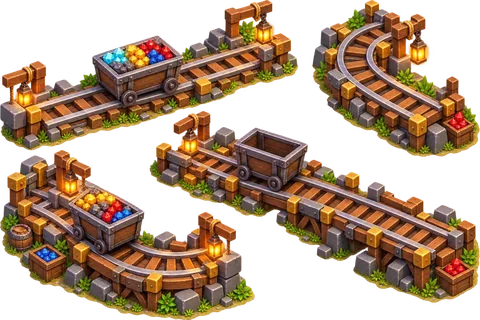
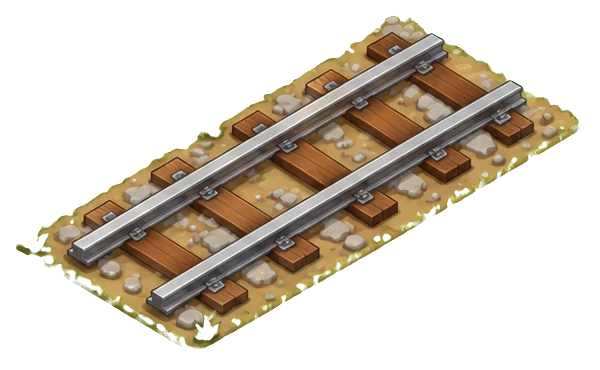
Rails avec les tuiles du Drive : droits, virages, embranchements et croisements automatiques ; le wagonnet suit les virages
Claude-Session: https://claude.ai/code/session_01F5c49AaQNVmfr8LMRrLVrX

diff --git a/src/composants/DessinsVillage.tsx b/src/composants/DessinsVillage.tsx
@@ -279,92 +279,70 @@ export function DessinEvolutionMine({ x, y, miroir, niveau, ascenseur, hauteurCa
 
 type Raccords = { n: boolean; e: boolean; s: boolean; o: boolean }
 
-// Le milieu de chaque bord d'une case, et les coins (pour les virages).
-function bords(x: number, y: number) {
-  return {
-    n: [x + 0.5, y] as [number, number],
-    e: [x + 1, y + 0.5] as [number, number],
-    s: [x + 0.5, y + 1] as [number, number],
-    o: [x, y + 0.5] as [number, number],
+// Les rails (23/10) : les tuiles du dessin de l'équipe (« Tuiles de voies ferrées isométriques »,
+// sur le Drive), remises à plat en vue de dessus par un script : un morceau tout droit et un
+// virage (fabriqué en courbant le morceau droit, pour avoir exactement le même style). On les
+// pose sur la case avec la même projection que le sol, tournées dans le bon sens.
+// Le joueur n'achète que des rails : chaque case choisit toute seule son dessin selon ses
+// voisines (une ligne droite se raccorde, un rail posé de côté fait un virage).
+const IMAGE_RAIL_DROIT = '/images/rails/rail_droit.webp' // relie le nord (y - 1) et le sud (y + 1)
+const IMAGE_RAIL_VIRAGE = '/images/rails/rail_virage.webp' // relie le sud (y + 1) et l'est (x + 1)
+
+type Cote = 'n' | 'e' | 's' | 'o'
+const COTES: Cote[] = ['n', 'e', 's', 'o']
+// Tourner d'un quart de tour (dans le sens des aiguilles d'une montre, vu de dessus) : n → e → s → o.
+const QUART: Record<Cote, Cote> = { n: 'e', e: 's', s: 'o', o: 'n' }
+const OPPOSE: Record<Cote, Cote> = { n: 's', e: 'o', s: 'n', o: 'e' }
+
+type Morceau = { image: string; quarts: number }
+
+// Combien de quarts de tour pour que le morceau de base (côtés a0, b0) relie les côtés a et b.
+function quartsPour(a0: Cote, b0: Cote, a: Cote, b: Cote): number {
+  for (let k = 0; k < 4; k++) {
+    let x = a0
+    let y = b0
+    for (let i = 0; i < k; i++) {
+      x = QUART[x]
+      y = QUART[y]
+    }
+    if ((x === a && y === b) || (x === b && y === a)) return k
   }
+  return 0
 }
 
-// Les morceaux de voie d'une case : des lignes droites (de bord à bord) ou des virages (quart de
-// cercle autour d'un coin de la case).
-function morceauxDeVoie(r: Raccords): ['droit', 'n' | 'e'] | ['virage', 'ne' | 'es' | 'so' | 'on'] | null {
-  const liste = (['n', 'e', 's', 'o'] as const).filter((c) => r[c])
+const droit = (a: Cote): Morceau => ({ image: IMAGE_RAIL_DROIT, quarts: a === 'n' || a === 's' ? 0 : 1 })
+const virage = (a: Cote, b: Cote): Morceau => ({ image: IMAGE_RAIL_VIRAGE, quarts: quartsPour('s', 'e', a, b) })
+
+// Les morceaux de voie d'une case, selon ses voisines :
+//   - aucune voisine, ou une seule : tout droit (vers la voisine) ;
+//   - deux voisines en face l'une de l'autre : tout droit ; à angle droit : un virage ;
+//   - trois voisines : tout droit entre les deux d'en face, et un virage vers la troisième ;
+//   - quatre : un croisement (les deux lignes droites).
+function morceauxDeVoie(r: Raccords): Morceau[] {
+  const liste = COTES.filter((c) => r[c])
+  if (liste.length === 0) return [droit('n')]
+  if (liste.length === 1) return [droit(liste[0])]
   if (liste.length === 2) {
     const [a, b] = liste
-    if ((a === 'n' && b === 's') || (a === 'e' && b === 'o')) return ['droit', a === 'n' ? 'n' : 'e']
-    const cle = `${a}${b}`
-    if (cle === 'ne') return ['virage', 'ne']
-    if (cle === 'es') return ['virage', 'es']
-    if (cle === 'so') return ['virage', 'so']
-    if (cle === 'no') return ['virage', 'on']
+    return OPPOSE[a] === b ? [droit(a)] : [virage(a, b)]
   }
-  return null
+  if (liste.length === 3) {
+    const seul = COTES.find((c) => r[c] && !r[OPPOSE[c]]) as Cote
+    const enFace = COTES.find((c) => r[c] && r[OPPOSE[c]]) as Cote
+    return [droit(enFace), virage(seul, enFace)]
+  }
+  return [droit('n'), droit('e')]
 }
-
-// Un quart de cercle de rayon r autour du coin K, du côté (ux, uy) au côté (vx, vy).
-function quartDeCercle(K: [number, number], r: number, u: [number, number], v: [number, number]): string {
-  const debut = versEcran(K[0] + u[0] * r, K[1] + u[1] * r)
-  const controle = versEcran(K[0] + (u[0] + v[0]) * r, K[1] + (u[1] + v[1]) * r)
-  const fin = versEcran(K[0] + v[0] * r, K[1] + v[1] * r)
-  return `M${debut.x} ${debut.y} Q${controle.x} ${controle.y} ${fin.x} ${fin.y}`
-}
-
-const VIRAGES = {
-  // coin, direction vers le premier bord, direction vers le second bord
-  ne: { coin: [1, 0], u: [-1, 0], v: [0, 1] },
-  es: { coin: [1, 1], u: [0, -1], v: [-1, 0] },
-  so: { coin: [0, 1], u: [1, 0], v: [0, -1] },
-  on: { coin: [0, 0], u: [0, 1], v: [1, 0] },
-} as const
 
 export function CaseRail({ x, y, raccords }: { x: number; y: number; raccords: Raccords }) {
-  const forme = morceauxDeVoie(raccords)
-  const b = bords(x, y)
-  const traverses: ReactNode[] = []
-  const rails: string[] = []
-  if (forme === null || forme[0] === 'droit') {
-    // Tout droit (ou croisement : on dessine les deux sens).
-    const sens: ('n' | 'e')[] =
-      forme !== null ? [forme[1]] : raccords.n || raccords.s ? (raccords.e || raccords.o ? ['n', 'e'] : ['n']) : ['e']
-    for (const s of sens) {
-      const [a1, a2] = s === 'n' ? [b.n, b.s] : [b.o, b.e]
-      const perp: [number, number] = s === 'n' ? [1, 0] : [0, 1]
-      for (const k of [0.2, 0.5, 0.8]) {
-        const cx = a1[0] + (a2[0] - a1[0]) * k
-        const cy = a1[1] + (a2[1] - a1[1]) * k
-        const g = versEcran(cx - perp[0] * 0.38, cy - perp[1] * 0.38)
-        const d = versEcran(cx + perp[0] * 0.38, cy + perp[1] * 0.38)
-        traverses.push(<line key={`${s}${k}`} x1={g.x} y1={g.y} x2={d.x} y2={d.y} />)
-      }
-      for (const decal of [-0.22, 0.22]) {
-        const debut = versEcran(a1[0] + perp[0] * decal, a1[1] + perp[1] * decal)
-        const fin = versEcran(a2[0] + perp[0] * decal, a2[1] + perp[1] * decal)
-        rails.push(`M${debut.x} ${debut.y} L${fin.x} ${fin.y}`)
-      }
-    }
-  } else {
-    const v = VIRAGES[forme[1]]
-    const K: [number, number] = [x + v.coin[0], y + v.coin[1]]
-    for (const k of [0.18, 0.5, 0.82]) {
-      const angle = (k * Math.PI) / 2
-      const dir: [number, number] = [v.u[0] * Math.cos(angle) + v.v[0] * Math.sin(angle), v.u[1] * Math.cos(angle) + v.v[1] * Math.sin(angle)]
-      const g = versEcran(K[0] + dir[0] * 0.12, K[1] + dir[1] * 0.12)
-      const d = versEcran(K[0] + dir[0] * 0.88, K[1] + dir[1] * 0.88)
-      traverses.push(<line key={k} x1={g.x} y1={g.y} x2={d.x} y2={d.y} />)
-    }
-    rails.push(quartDeCercle(K, 0.28, v.u as unknown as [number, number], v.v as unknown as [number, number]))
-    rails.push(quartDeCercle(K, 0.72, v.u as unknown as [number, number], v.v as unknown as [number, number]))
-  }
+  const coin = versEcran(x, y)
+  // La case vue de dessus (1 × 1) posée sur la grille isométrique : la même projection que le sol.
+  const surLaCase = `matrix(${DEMI_LARGEUR} ${DEMI_HAUTEUR} ${-DEMI_LARGEUR} ${DEMI_HAUTEUR} ${coin.x} ${coin.y})`
   return (
-    <g className="case-rail">
-      <polygon points={poly([[x, y], [x + 1, y], [x + 1, y + 1], [x, y + 1]])} className="ballast" />
-      <g className="traverses">{traverses}</g>
-      <path d={rails.join(' ')} className="rail-ombre" />
-      <path d={rails.join(' ')} className="rail-acier" />
+    <g className="case-rail" transform={surLaCase}>
+      {morceauxDeVoie(raccords).map((m, i) => (
+        <image key={i} href={m.image} x="0" y="0" width="1" height="1" preserveAspectRatio="none" transform={m.quarts ? `rotate(${m.quarts * 90} 0.5 0.5)` : undefined} />
+      ))}
     </g>
   )
 }

diff --git a/src/composants/iso.ts b/src/composants/iso.ts
@@ -7,7 +7,7 @@
 // en damier et la forêt autour sont dessinés par le jeu (TerrainVillage, ForetVillage).
 
 import { TAILLE_GRILLE, type IdBatiment, type IdDecoration } from '../jeu/donnees'
-import { porte, porteAGauche, type BatimentPose, type Case } from '../jeu/village'
+import { batimentPose, empriseBatiment, porte, porteAGauche, type BatimentPose, type Case, type Village } from '../jeu/village'
 
 // La moitié de la largeur et de la hauteur d'une case à l'écran (la taille des images des
 // bâtiments est calée dessus : elle ne change pas si la clairière grandit).
@@ -154,6 +154,65 @@ export function surLeChemin(points: Case[], distance: number): { x: number; y: n
   const dernier = centres[centres.length - 1]
   const avant = centres[centres.length - 2] ?? dernier
   return { x: dernier.x, y: dernier.y, dx: dernier.x - avant.x, dy: dernier.y - avant.y }
+}
+
+// Une position le long d'une trace (des points de la grille, à virgule), à une distance donnée.
+export function surLaTrace(points: { x: number; y: number }[], distance: number): { x: number; y: number; dx: number; dy: number } {
+  return surLeChemin(
+    points.map((p) => ({ x: p.x - 0.5, y: p.y - 0.5 })),
+    distance,
+  )
+}
+
+export function longueurTrace(points: { x: number; y: number }[]): number {
+  let total = 0
+  for (let i = 1; i < points.length; i++) total += Math.hypot(points[i].x - points[i - 1].x, points[i].y - points[i - 1].y)
+  return total
+}
+
+// La trace du wagonnet sur la ligne de rails (23/10) : il part du bord de la mine, suit le milieu
+// de la voie (tout droit au centre des cases, en quart de cercle dans les virages, comme le
+// dessin des rails), et arrive au bord du marché.
+export function traceDeLaVoie(village: Village, ligne: Case[]): { x: number; y: number }[] {
+  const dans = (id: 'puits' | 'marche', c: Case) => {
+    const b = batimentPose(village, id)
+    if (!b) return false
+    const e = empriseBatiment(b)
+    return c.x >= e.x && c.y >= e.y && c.x < e.x + e.taille && c.y < e.y + e.taille
+  }
+  const voisins = [
+    { x: 0, y: -1 },
+    { x: 1, y: 0 },
+    { x: 0, y: 1 },
+    { x: -1, y: 0 },
+  ]
+  // Le côté de la case qui donne vers la case précédente (ou la mine) et vers la suivante (ou le marché).
+  const cote = (c: Case, vers: Case | 'puits' | 'marche') => {
+    if (typeof vers !== 'string') return { x: Math.sign(vers.x - c.x), y: Math.sign(vers.y - c.y) }
+    return voisins.find((d) => dans(vers, { x: c.x + d.x, y: c.y + d.y })) ?? { x: 0, y: vers === 'puits' ? -1 : 1 }
+  }
+  const trace: { x: number; y: number }[] = []
+  ligne.forEach((c, i) => {
+    const entree = cote(c, i > 0 ? ligne[i - 1] : 'puits')
+    const sortie = cote(c, i < ligne.length - 1 ? ligne[i + 1] : 'marche')
+    const centre = { x: c.x + 0.5, y: c.y + 0.5 }
+    const bordEntree = { x: centre.x + entree.x * 0.5, y: centre.y + entree.y * 0.5 }
+    const bordSortie = { x: centre.x + sortie.x * 0.5, y: centre.y + sortie.y * 0.5 }
+    if (i === 0) trace.push(bordEntree)
+    if (entree.x === -sortie.x && entree.y === -sortie.y) {
+      trace.push(centre, bordSortie)
+      return
+    }
+    // Un virage : un quart de cercle de rayon 0,5 autour du coin commun aux deux côtés.
+    const coin = { x: centre.x + (entree.x + sortie.x) * 0.5, y: centre.y + (entree.y + sortie.y) * 0.5 }
+    for (let k = 1; k <= 6; k++) {
+      const angle = (k / 6) * (Math.PI / 2)
+      const a = { x: bordEntree.x - coin.x, y: bordEntree.y - coin.y }
+      const b = { x: bordSortie.x - coin.x, y: bordSortie.y - coin.y }
+      trace.push({ x: coin.x + a.x * Math.cos(angle) + b.x * Math.sin(angle), y: coin.y + a.y * Math.cos(angle) + b.y * Math.sin(angle) })
+    }
+  })
+  return trace
 }
 
 // Où se tient quelqu'un devant un bâtiment : le long de sa face avant (rang 0 = juste devant la

diff --git a/public/sw.js b/public/sw.js
@@ -9,12 +9,13 @@
 // - Les autres fichiers du site (icônes, manifeste, images du village) : le cache d'abord, puis on le met à jour.
 // - Supabase (comptes, classement) n'est jamais mis en cache : ce n'est pas notre site.
 
-const CACHE = 'idle-miner-v8'
+const CACHE = 'idle-miner-v9'
 // Les images du village vu du ciel (20/10) sont rangées dès l'installation : sans elles, le
 // village serait vide hors ligne. (21/10 : images en haute définition et arbres, d'où le cache v4.)
 const IMAGES_DU_VILLAGE = [
   ...Array.from({ length: 12 }, (_, i) => `/images/village/arbres/arbre${String(i + 1).padStart(2, '0')}.webp`),
   ...['mine', 'mine-cabine', 'mine-devant', 'bazar', 'employes', 'foreuse', 'forgeron', 'generateur', 'marche', 'rails'].map((nom) => `/images/batiments/${nom}.webp`),
+  ...['rail_droit', 'rail_virage'].map((nom) => `/images/rails/${nom}.webp`),
   ...['manager', 'mineur', 'recruteur'].map((nom) => `/images/personnages/${nom}.webp`),
   // Les personnages vus de devant, de derrière, de gauche et de droite (src/composants/sprites.ts).
   ...['joueur', 'mineur_commun', 'mineur_rare', 'mineur_epique', 'mineur_legendaire', 'mineur_mythique'].flatMap((nom) =>

diff --git a/src/composants/MenuConstruction.tsx b/src/composants/MenuConstruction.tsx
@@ -137,7 +137,7 @@ export function MenuConstruction({ etat, onglet, onOnglet, onFermer, onPoserBati
               </div>
               <div className="construction-texte">
                 <strong>🛤 Rails</strong>
-                <span className="discret">Relie la mine au marché par une ligne continue : le wagonnet y emporte le coffre de la mine. Poussé par toi ou un mineur, ou tout seul avec le générateur !</span>
+                <span className="discret">Relie la mine au marché par une ligne continue : le wagonnet y emporte le coffre de la mine. Pose-les en ligne, ils se raccordent tout seuls ; un rail posé sur le côté fait un virage.</span>
                 <span className="discret">1 case · {etat.village.rails.length} posée{etat.village.rails.length > 1 ? 's' : ''}</span>
               </div>
               <div className="construction-achat">

diff --git a/src/composants/VueVillage.tsx b/src/composants/VueVillage.tsx
@@ -48,6 +48,9 @@ import {
   orienter,
   profondeur,
   surLeChemin,
+  surLaTrace,
+  longueurTrace,
+  traceDeLaVoie,
   versEcran,
   versGrille,
   type Point,
@@ -139,8 +142,9 @@ export function VueVillage({
   const ligne = ligneDuWagonnet(etat)
   const wagonnet = (() => {
     if (!ligne) return null
+    const trace = traceDeLaVoie(village, ligne)
     const k = distanceDepuisLaMine(etat) / longueurTrajet(ligne)
-    const point = surLeChemin(ligne, k * longueurChemin(ligne))
+    const point = surLaTrace(trace, k * longueurTrace(trace))
     const retour = etat.wagonnet.etape === 'retour'
     return { ...point, dx: retour ? -point.dx : point.dx, dy: retour ? -point.dy : point.dy }
   })()

diff --git a/src/village.css b/src/village.css
@@ -172,31 +172,6 @@
 
 /* --- Le sol : rails, chemins, grille, emprises ------------------------------------ */
 
-.case-rail .ballast {
-  fill: #8a7a64;
-  stroke: #5e5244;
-  stroke-width: 0.6;
-}
-
-.case-rail .traverses line {
-  stroke: #7a4a22;
-  stroke-width: 3.4;
-  stroke-linecap: round;
-}
-
-.case-rail .rail-ombre {
-  fill: none;
-  stroke: #26262c;
-  stroke-width: 3.6;
-  stroke-linecap: round;
-}
-
-.case-rail .rail-acier {
-  fill: none;
-  stroke: #d2d3dc;
-  stroke-width: 1.7;
-  stroke-linecap: round;
-}
 
 .emprise {
   stroke-width: 2;

diff --git a/docs/jeu/visuel-et-sons.md b/docs/jeu/visuel-et-sons.md
@@ -192,7 +192,11 @@ Le village est une carte **isométrique** (vue du ciel à 45°, comme Clash of C
 - **La mine** : l'image fournie (`mine.webp`), et par-dessus ce qui **évolue** (`DessinEvolutionMine`, en SVG, placé à partir de points de l'image, `POINTS_MINE`, miroir compris) :
   - **la cabine de l'ascenseur** (`mine-cabine.webp`, tirée du dessin « mine avec ascenseur »), dès qu'il est construit, pendue à **deux câbles** (gris en pointillés sur un trait sombre) qui partent du treuil. Elle **suit le premier mineur qui monte ou descend** (`hauteurCabine` : 0 = en haut, 1 = en bas, selon l'avancée de son trajet) et attend en haut le reste du temps. En bas, elle passe derrière la barrière et le sol de devant (`mine-devant.webp`, dessiné par-dessus). Sans ascenseur, les câbles pendent au fond du puits ;
   - **un panneau en bois** planté sur le sol de devant, à gauche, avec « Niv. *N* ».
-- **Les rails** (`CaseRail`) : du ballast gris, des traverses en bois, deux rails en acier. Chaque case **se raccorde toute seule** à ses voisines (et à la mine ou au marché collés à elle) : une ligne droite, ou un **virage** en quart de cercle.
+- **Les rails** (`CaseRail`, 23/10) : les tuiles du dessin de l'équipe (« Tuiles de voies ferrées isométriques » sur le Drive : ballast de terre et de cailloux, traverses en bois, rails en acier avec leurs attaches). Un script les a remises à plat en vue de dessus, puis on les repose sur chaque case avec la même projection que le sol (`public/images/rails/`) :
+  - `rail_droit.webp` : un morceau tout droit d'une case (deux traverses, raccordable sans couture) ;
+  - `rail_virage.webp` : le virage, fabriqué en **courbant** le morceau droit en quart de cercle (rayon d'une demi-case autour d'un coin) : exactement le même style.
+
+  On n'achète que des rails : chaque case **choisit toute seule** son dessin selon ses voisines (et la mine ou le marché collés à elle, `raccordsRail`), en tournant la tuile d'un quart de tour si besoin : seule ou avec une voisine → tout droit vers elle ; deux voisines en face → tout droit ; deux voisines à angle droit → **virage** ; trois voisines → tout droit plus un virage vers la troisième ; quatre → croisement. Le **wagonnet suit la voie** : tout droit au milieu des cases, en quart de cercle dans les virages (`traceDeLaVoie` dans `iso.ts`). L'image du menu Bâtiments (`images/batiments/rails.webp`) est le morceau droit de la planche.
 - **Le wagonnet** (`DessinWagonnet`) : une petite benne grise au bord doré sur deux roues, avec son ombre. **À l'aller**, il est **plein** (trois minerais qui dépassent : turquoise, jaune, rouge) ; au retour et au quai, vide. Il glisse le long de la ligne selon sa distance (`distanceDepuisLaMine`), à chaque image quand c'est le joueur qui pousse. **Électrique**, il a une **lueur jaune** (`.wagonnet-electrique`). Son pousseur (le joueur ou un mineur) marche derrière lui.
 - **Le rayon du générateur** (`RayonGenerateur`) : un cercle de *R* cases autour du centre du générateur, dessiné comme un polygone de 64 points projeté sur la grille (une ellipse à l'écran). **Pointillés jaunes** (`rgb(255 214 60)`) avec un fond jaune très léger. Quand on est devant le générateur ou qu'on le pose : plus épais, plus visible, et les **pointillés tournent** (`rayon-tourne`, 1,6 s). Sans courant : **gris**. Caché s'il ne donne pas de courant et qu'on ne le regarde pas.
 - **Les chemins** (`CaseChemin`) : des pavés gris clair sur de la terre beige.
@@ -293,7 +297,7 @@ Toutes ont le même dessin : sur un fond carré arrondi gris-bleu très sombre (
 
 Enregistré **seulement en production** (`enregistrerServiceWorker` dans `src/installation.ts`, appelé par `main.tsx` ; en développement le cache gênerait), au chargement de la page, avec `updateViaCache: 'none'`. S'il échoue (navigation privée…), le jeu marche quand même, sans hors ligne.
 
-- Cache **`idle-miner-v8`** (changer ce nom vide le cache de tous les joueurs). À l'installation, il range `/`, `/manifest.webmanifest`, `/favicon.svg`, `/icones/icone-192.png`, `/icones/icone-512.png`, et **les images du village** (`IMAGES_DU_VILLAGE` : les 12 arbres, 9 images de `images/batiments/` (mine, bazar, employes, enchanteur, foreuse, forgeron, marche, prestige, rails), les 3 portraits de `images/personnages/`, les 26 images des personnages de `images/personnages/sprites/`). Attention : `generateur.webp`, `mine-cabine.webp` et `mine-devant.webp` ne sont **pas** dans cette liste : ils ne sont mis en cache qu'après avoir été vus une fois en ligne, et prend la main tout de suite (`skipWaiting`, `clients.claim`). À l'activation, il efface les caches d'un autre nom (changer `CACHE` vide le cache de tous les joueurs).
+- Cache **`idle-miner-v9`** (changer ce nom vide le cache de tous les joueurs). À l'installation, il range `/`, `/manifest.webmanifest`, `/favicon.svg`, `/icones/icone-192.png`, `/icones/icone-512.png`, et **les images du village** (`IMAGES_DU_VILLAGE` : les 12 arbres, 10 images de `images/batiments/` (mine, mine-cabine, mine-devant, bazar, employes, foreuse, forgeron, generateur, marche, rails), les 2 tuiles de `images/rails/`, les 3 portraits de `images/personnages/`, les 26 images des personnages de `images/personnages/sprites/`). Il prend la main tout de suite (`skipWaiting`, `clients.claim`). À l'activation, il efface les caches d'un autre nom (changer `CACHE` vide le cache de tous les joueurs).
 - Seules les requêtes **GET de notre propre site** passent par lui (Supabase n'est jamais mis en cache).
 
 | Requête | Stratégie |

diff --git a/CONTEXTE.md b/CONTEXTE.md
@@ -159,3 +159,4 @@ L'historique détaillé de l'ancien jeu (mine en coupe, profondeur, prestige, en
 - **2026-10-22** : **la mine automatique** (grosse refonte demandée par l'utilisateur). Plus de prestige ni d'enchanteur (archivés dans `archives/`), plus de vue en coupe ni de profondeur : la mine a 5 niveaux (pierre/charbon/fer, + redstone, + or, + émeraude, + diamant), on clique sur un bloc au panneau de la mine (pioche = chance de doubler les minerais, pioche en pierre au départ), tout va dans le coffre de la mine. Mineurs dès le début (ils remplissent le coffre), rails en fer, wagonnet poussé par le joueur ou un mineur pousseur, générateur à redstone (rayon de 15 cases) qui électrifie les rails et la foreuse. Nouveau bot, tests et doc. Sauvegarde v21.
 - **2026-10-23** : interface plus compacte et plus vivante. Bandeau en petites cases arrondies (argent et $/s, coffre avec le niveau de la mine, pioche, sac, mineurs), boutons du coin sans texte (le son et la musique passent dans ⚙), gros boutons du bas brillants (anneau du coffre sur la Mine, bouton « 💰 Vendre » quand le sac n'est pas vide, boutons qui respirent quand quelque chose attend), bulles de notification en médaille avec deux mots, anneau d'alerte et étincelles, panneaux plus serrés. Carte : taches d'herbe, trèfles et champignons, papillons, oiseaux et ombres de nuages, générateur qui brille (`src/interface.css`, `AmbianceVillage.tsx`).
 - **2026-10-23** : marche du joueur plus fluide (élan et freinage, chemin lissé en lignes droites, image qui ne clignote plus dans les virages, caméra qui suit en douceur à chaque image) et joueur plus vivant (anneau doré et liseré de lumière, pas qui s'écrasent et s'étirent, penché dans le sens de la marche, poussière sous les pieds, ombre qui rétrécit pendant un saut, repère doré de destination).
+- **2026-10-23** : rails dessinés avec les tuiles de l'équipe (planche « Tuiles de voies ferrées isométriques » du Drive, remise à plat par un script : un morceau droit, et un virage fabriqué en courbant le morceau droit). On n'achète que des rails : lignes droites, virages, embranchements et croisements se font tout seuls selon les voisins, et le wagonnet suit la courbe des virages. Cache PWA v9.

diff --git a/docs/jeu/village.md b/docs/jeu/village.md
@@ -78,7 +78,7 @@ Si on pose un bâtiment sur le hamster, il est poussé sur la case libre la plus
 
 - Les rails sont dans le menu Bâtiments, **dès le début**, **3 fer la case** (`COUT_RAIL`).
 - « 🛤 Poser des rails » ouvre le **pinceau** : chaque case touchée (ou survolée en faisant glisser le doigt) reçoit un rail si elle est libre et qu'on a le fer (sac puis coffre). « ✔ Terminé » pour finir.
-- Les rails **se raccordent tout seuls** à leurs voisins (en ligne droite ou en **virage**), et aussi à la mine et au marché quand ils les touchent (`raccordsRail`).
+- On n'achète qu'une sorte de rail (pas de virage à part). Les rails **se raccordent tout seuls** : posés en ligne, ils font une voie droite ; un rail posé **sur le côté** d'une ligne fait un **virage** tout seul. Ils se raccordent aussi à la mine et au marché quand ils les touchent (`raccordsRail`). Le dessin vient des tuiles de l'équipe (voir [visuel-et-sons.md § 7.3](visuel-et-sons.md#73-les-dessins)).
 - Une ligne **continue** (cases voisines par un côté, pas en diagonale) qui part d'une case collée à la mine et arrive à une case collée au marché **relie la mine au marché** (`railsMineMarche`, la plus courte ; succès « Cheminot »). Alors le **wagonnet** apparaît au quai (le début de la ligne, contre la mine) :
   - il **emporte le coffre de la mine** (les objets les plus chers d'abord, sauf les objets gardés), roule jusqu'au marché, **y vend tout**, puis revient ;
   - il ne part pas tout seul : il faut le **pousser**, toi (bouton « 🛤 Pousser le wagonnet » au panneau de la mine : ton hamster fait l'aller-retour avec lui, 3 cases/s) ou un **mineur pousseur** (au Personnel, 2,5 cases/s) ;
